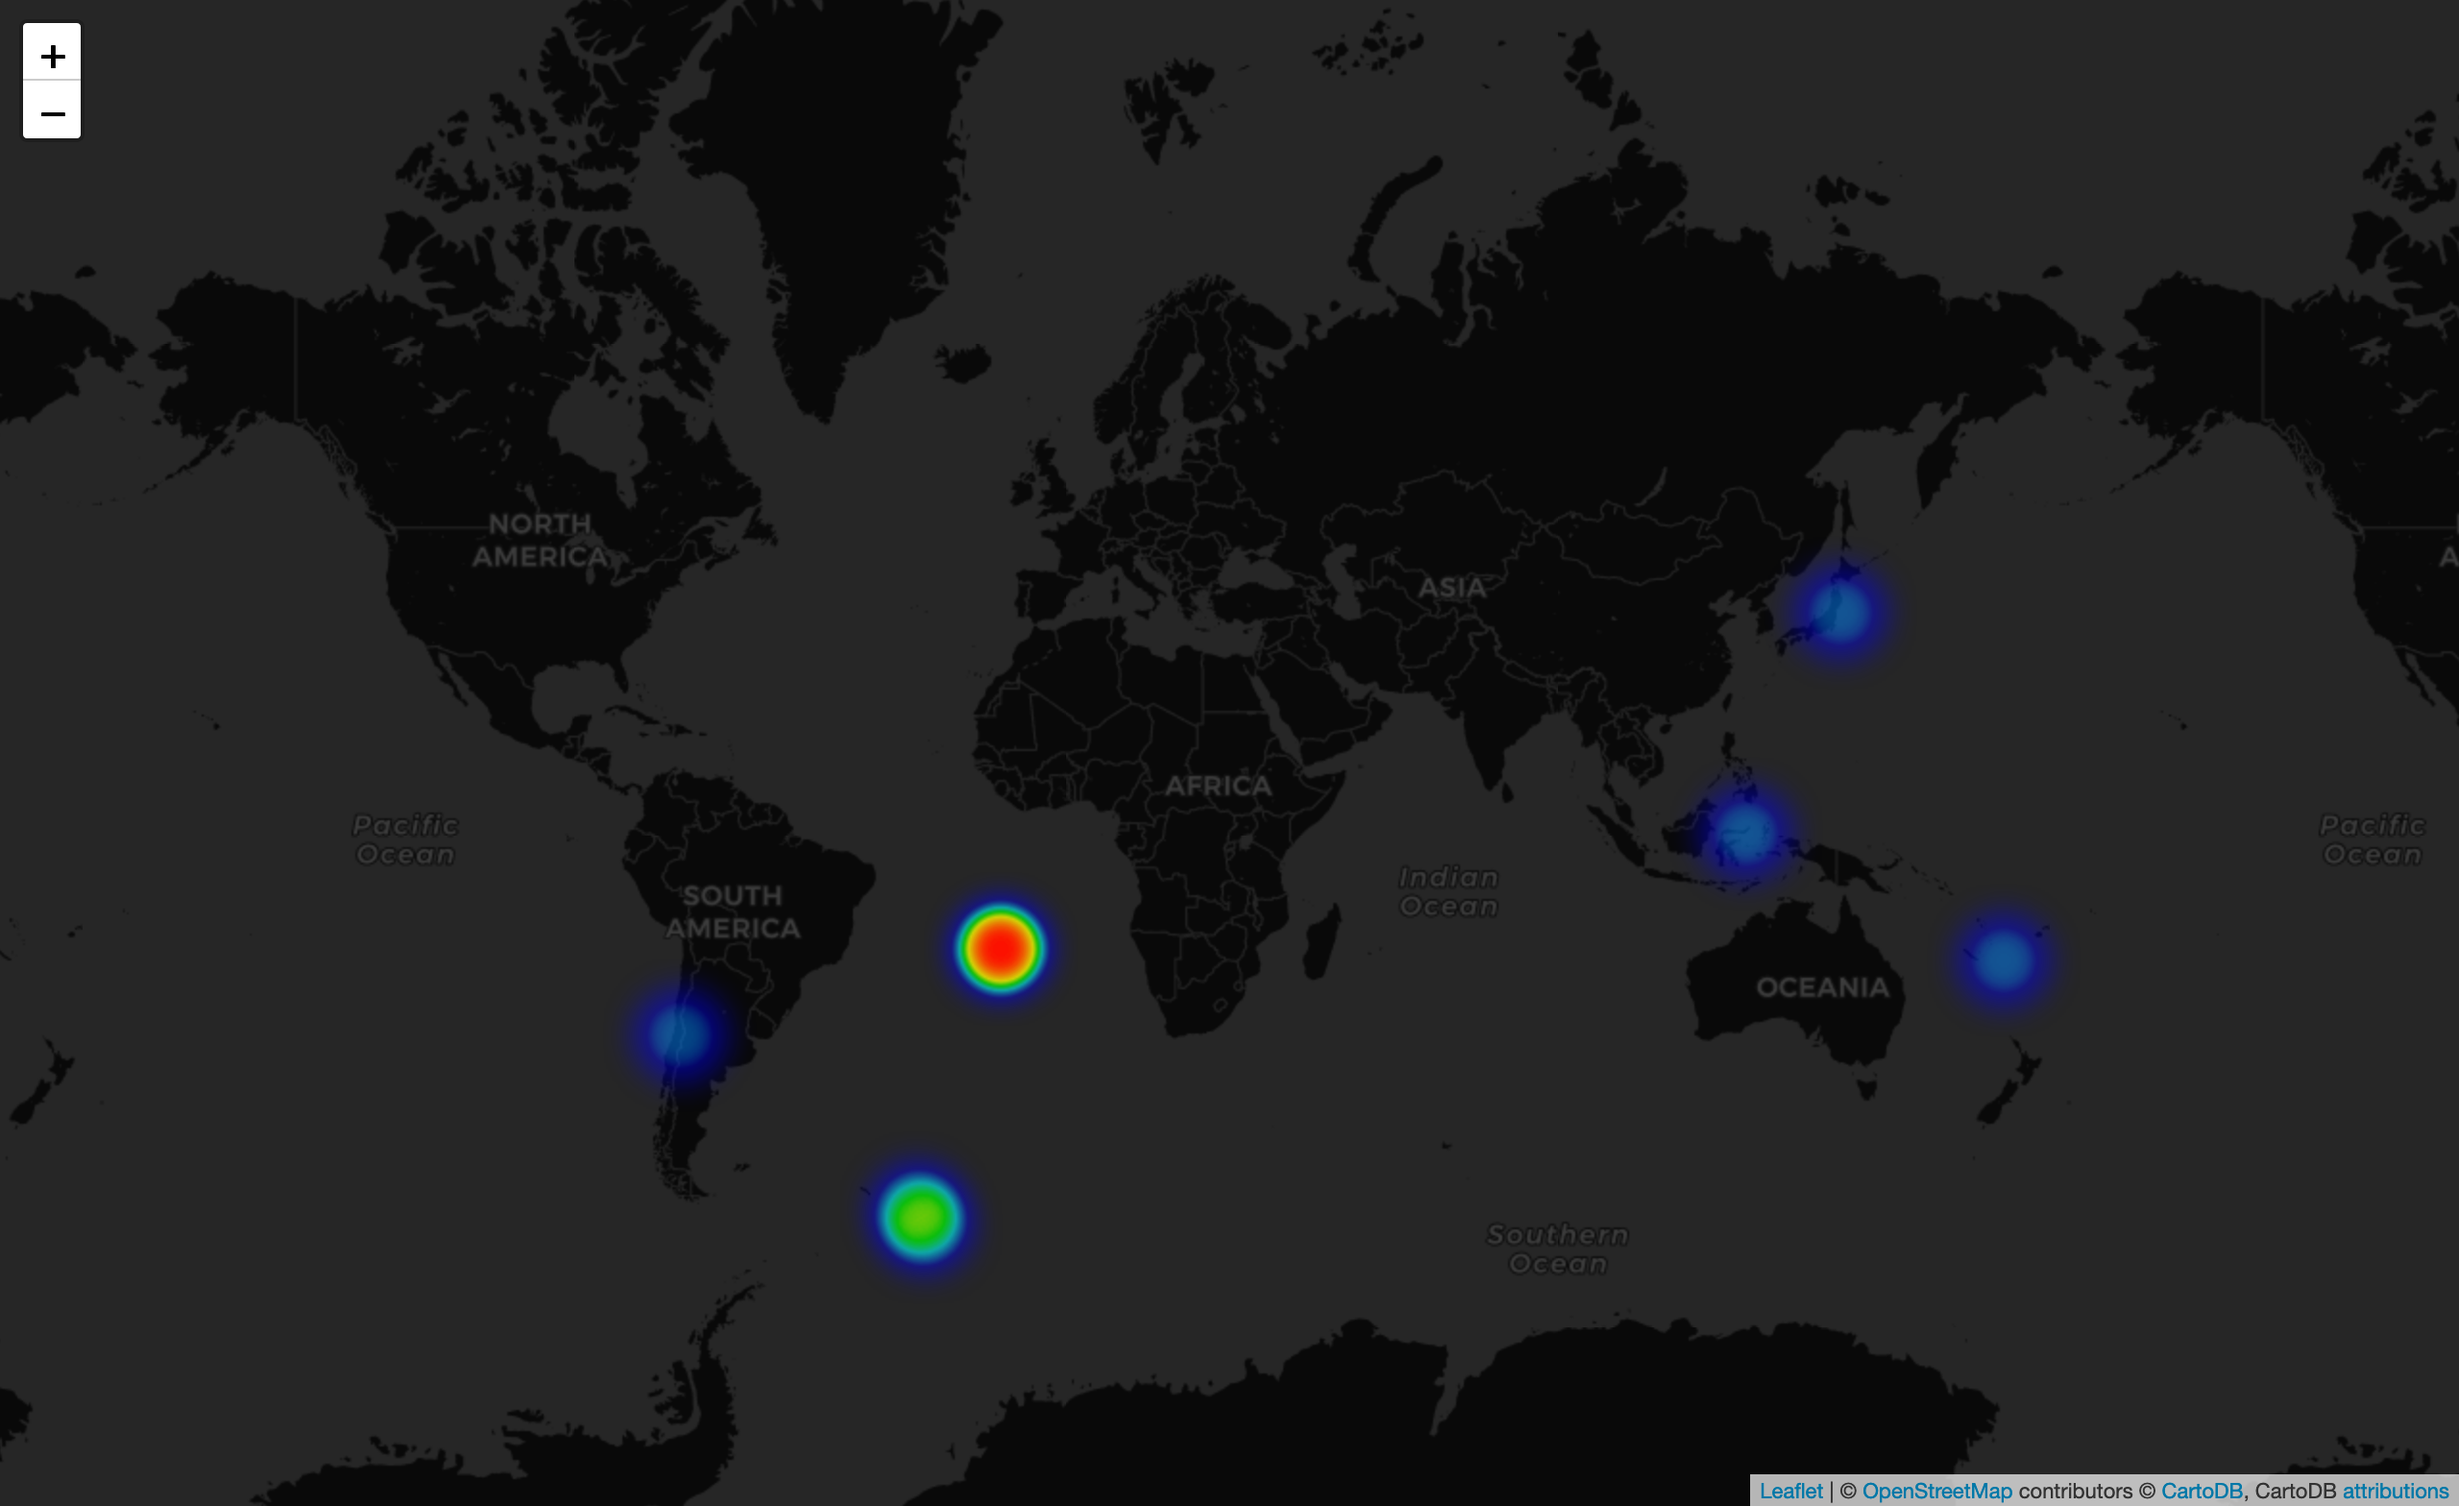
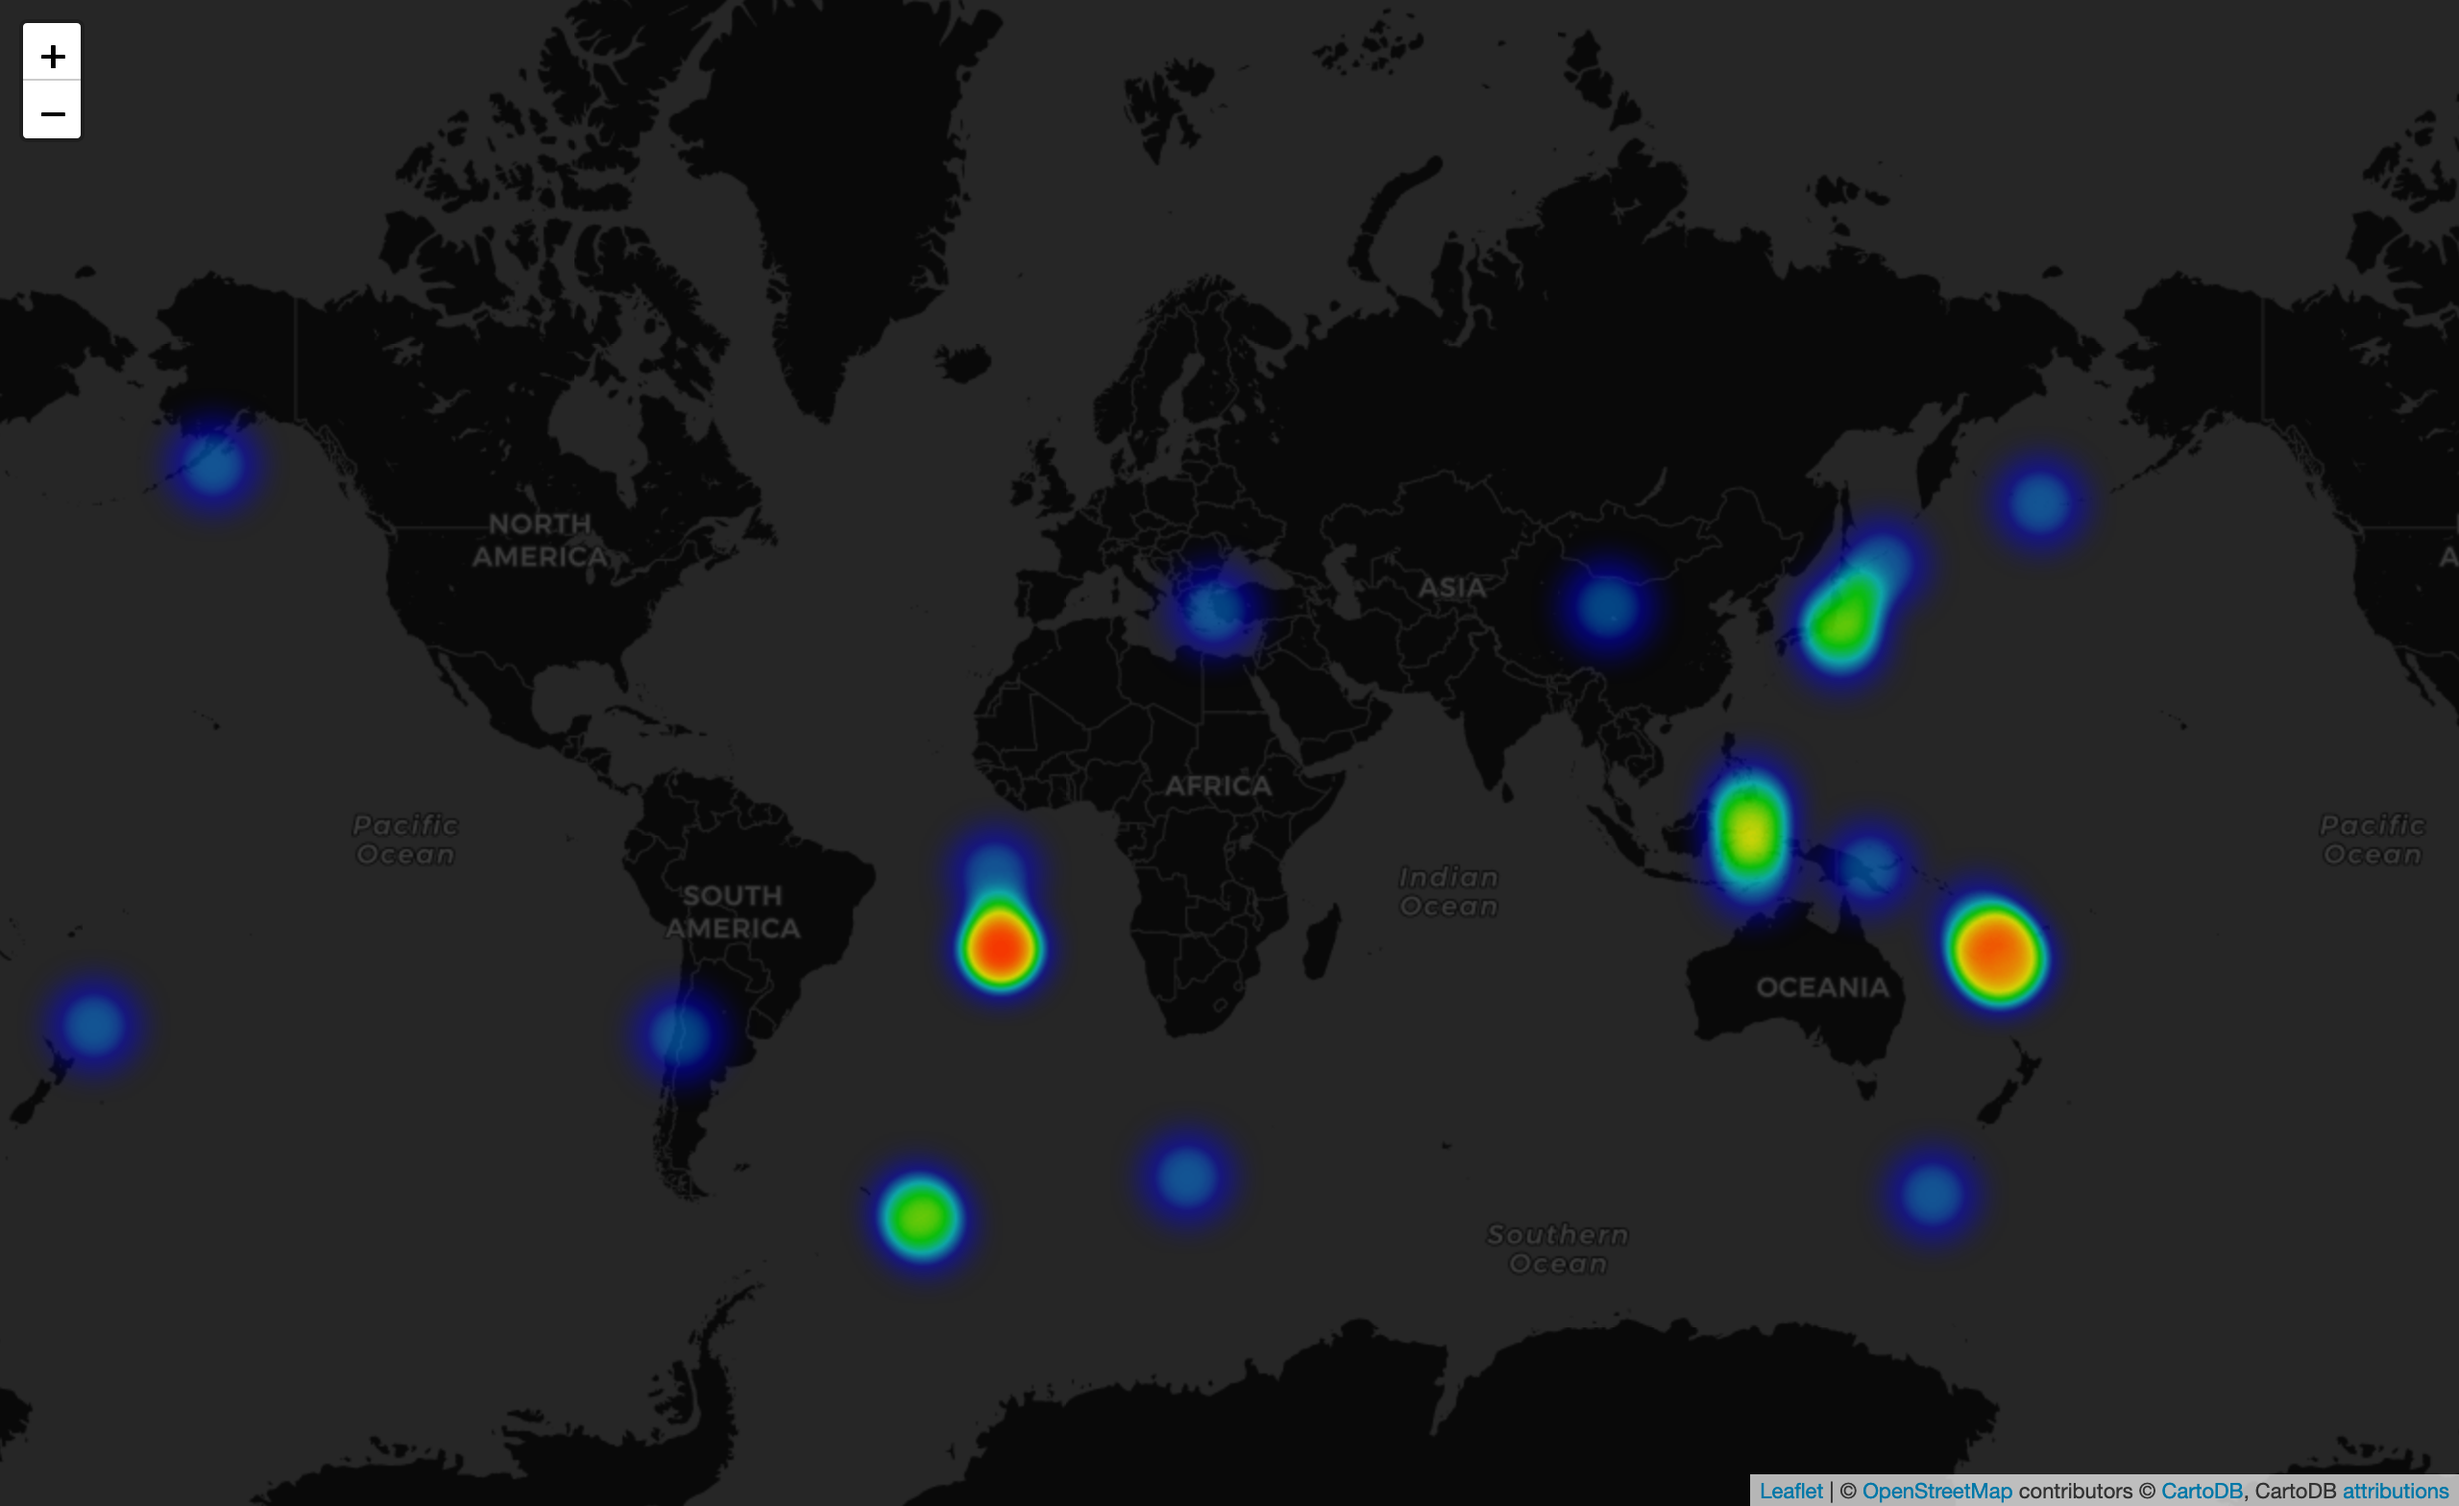
worldearth quake heatmap visuals

diff --git a/results/heat_map_eq.html b/results/heat_map_eq.html
@@ -23,7 +23,7 @@
             <meta name="viewport" content="width=device-width,
                 initial-scale=1.0, maximum-scale=1.0, user-scalable=no" />
             <style>
-                #map_14d69b2e9b7123ba182b5ed8f786d317 {
+                #map_115fede029108cb092de773bc46ad014 {
                     position: relative;
                     width: 100.0%;
                     height: 100.0%;
@@ -36,13 +36,13 @@
 </head>
 <body>    
     
-            <div class="folium-map" id="map_14d69b2e9b7123ba182b5ed8f786d317" ></div>
+            <div class="folium-map" id="map_115fede029108cb092de773bc46ad014" ></div>
         
 </body>
 <script>    
     
-            var map_14d69b2e9b7123ba182b5ed8f786d317 = L.map(
-                "map_14d69b2e9b7123ba182b5ed8f786d317",
+            var map_115fede029108cb092de773bc46ad014 = L.map(
+                "map_115fede029108cb092de773bc46ad014",
                 {
                     center: [15.0, 30.0],
                     crs: L.CRS.EPSG3857,
@@ -56,15 +56,15 @@
 
         
     
-            var tile_layer_a46f55975d9c03d7bd65ddf045bce931 = L.tileLayer(
+            var tile_layer_4062183487201b28c62bf0d751f4e5ad = L.tileLayer(
                 "https://cartodb-basemaps-{s}.global.ssl.fastly.net/dark_all/{z}/{x}/{y}.png",
                 {"attribution": "\u0026copy; \u003ca href=\"http://www.openstreetmap.org/copyright\"\u003eOpenStreetMap\u003c/a\u003e contributors \u0026copy; \u003ca href=\"http://cartodb.com/attributions\"\u003eCartoDB\u003c/a\u003e, CartoDB \u003ca href =\"http://cartodb.com/attributions\"\u003eattributions\u003c/a\u003e", "detectRetina": false, "maxNativeZoom": 18, "maxZoom": 18, "minZoom": 0, "noWrap": false, "opacity": 1, "subdomains": "abc", "tms": false}
-            ).addTo(map_14d69b2e9b7123ba182b5ed8f786d317);
+            ).addTo(map_115fede029108cb092de773bc46ad014);
         
     
-            var heat_map_ef225b355d3f3e9288ab36f61883078e = L.heatLayer(
-                [[-57.9983, -25.7068, 0.3339583059815226], [-20.5094, -11.7191, 0.3339583059815226], [-56.1713, -27.3639, 0.34038058109655184], [-20.4496, -11.7901, 0.3275360308664933], [-20.2238, -12.4116, 0.3275360308664933], [-22.2898, 171.6659, 0.321113755751464], [0.3403, 124.3752, 0.3468028562115812], [37.6284, 141.6741, 0.3275360308664933], [-34.3475, -70.5794, 0.34038058109655184]],
+            var heat_map_df8f3597fdfa950ef2a09bc3254b8fb7 = L.heatLayer(
+                [[-57.9983, -25.7068, 0.161262987916992], [-20.5094, -11.7191, 0.161262987916992], [-56.1713, -27.3639, 0.16436419922308798], [-20.4496, -11.7901, 0.15816177661089598], [-20.2238, -12.4116, 0.15816177661089598], [-22.2898, 171.6659, 0.1550605653048], [0.3403, 124.3752, 0.167465410529184], [37.6284, 141.6741, 0.15816177661089598], [-34.3475, -70.5794, 0.16436419922308798], [-7.0096, 125.4748, 0.17056662183527999], [33.1659, 141.6785, 0.167465410529184], [56.066, -155.957, 0.161262987916992], [-5.9323, 146.6275, 0.1550605653048], [44.3002, 149.5379, 0.1550605653048], [44.3657, 149.5, 0.15816177661089598], [-22.4001, 170.3261, 0.1550605653048], [-54.8013, 158.5708, 0.161262987916992], [-7.1058, -12.8951, 0.1550605653048], [38.4817, 99.1373, 0.16436419922308798], [6.6378, 125.0013, 0.161262987916992], [-5.9927, 147.3494, 0.15816177661089598], [-22.0641, 170.9274, 0.192275100977952], [51.837, 178.1519, 0.167465410529184], [-32.919, -178.004, 0.210882368814528], [-52.8982, 22.1729, 0.16436419922308798], [37.9837, 27.1478, 0.1550605653048], [-15.7976, 167.0591, 0.182971467059664], [1.8151, 126.3654, 0.176769044447472], [-57.9983, -25.7068, 0.161262987916992], [-20.5094, -11.7191, 0.161262987916992], [-56.1713, -27.3639, 0.16436419922308798], [-20.4496, -11.7901, 0.15816177661089598], [-20.2238, -12.4116, 0.15816177661089598], [-22.2898, 171.6659, 0.1550605653048], [0.3403, 124.3752, 0.167465410529184], [37.6284, 141.6741, 0.15816177661089598], [-34.3475, -70.5794, 0.16436419922308798]],
                 {"blur": 15, "maxZoom": 18, "minOpacity": 0.5, "radius": 25}
-            ).addTo(map_14d69b2e9b7123ba182b5ed8f786d317);
+            ).addTo(map_115fede029108cb092de773bc46ad014);
         
 </script>
